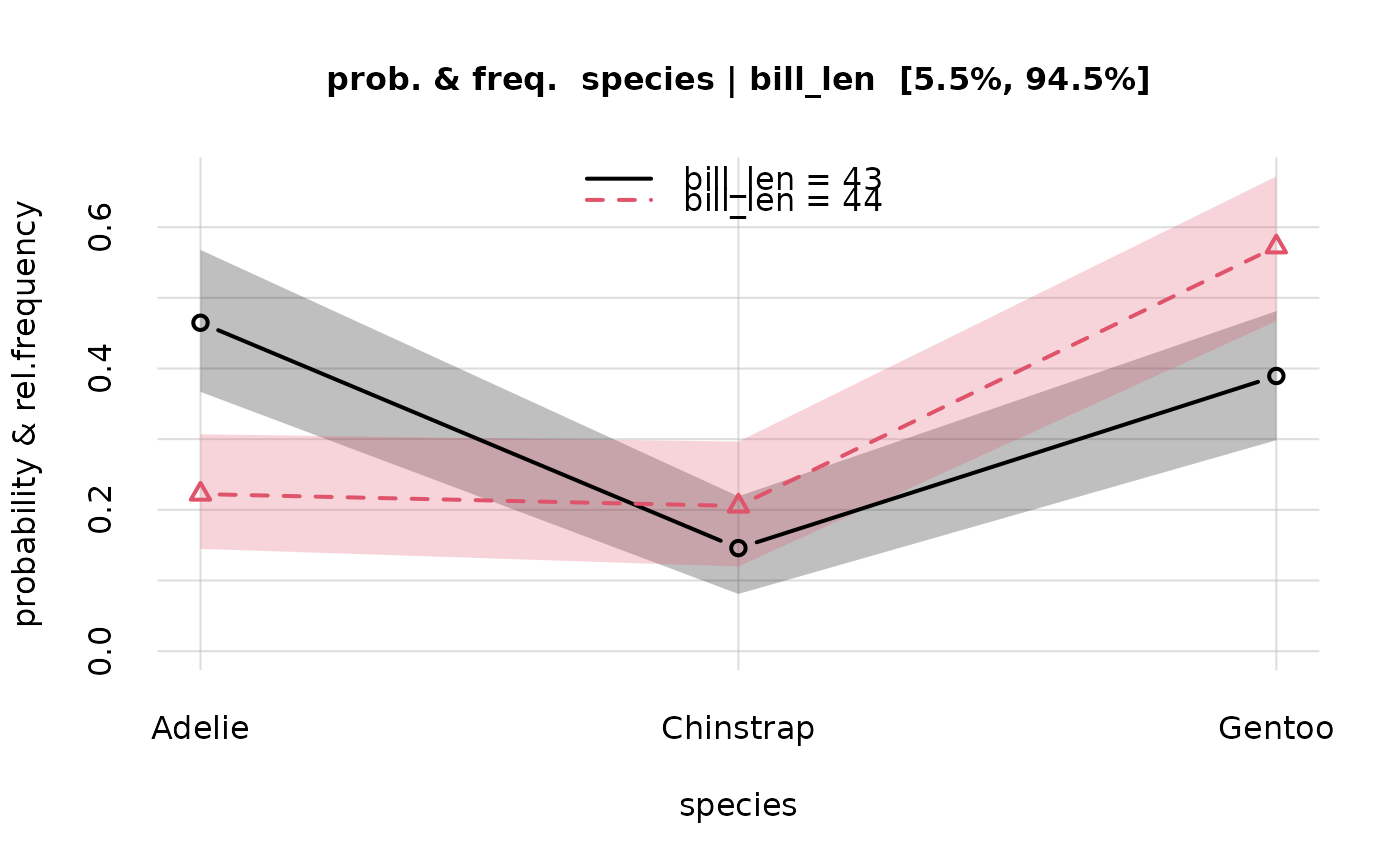
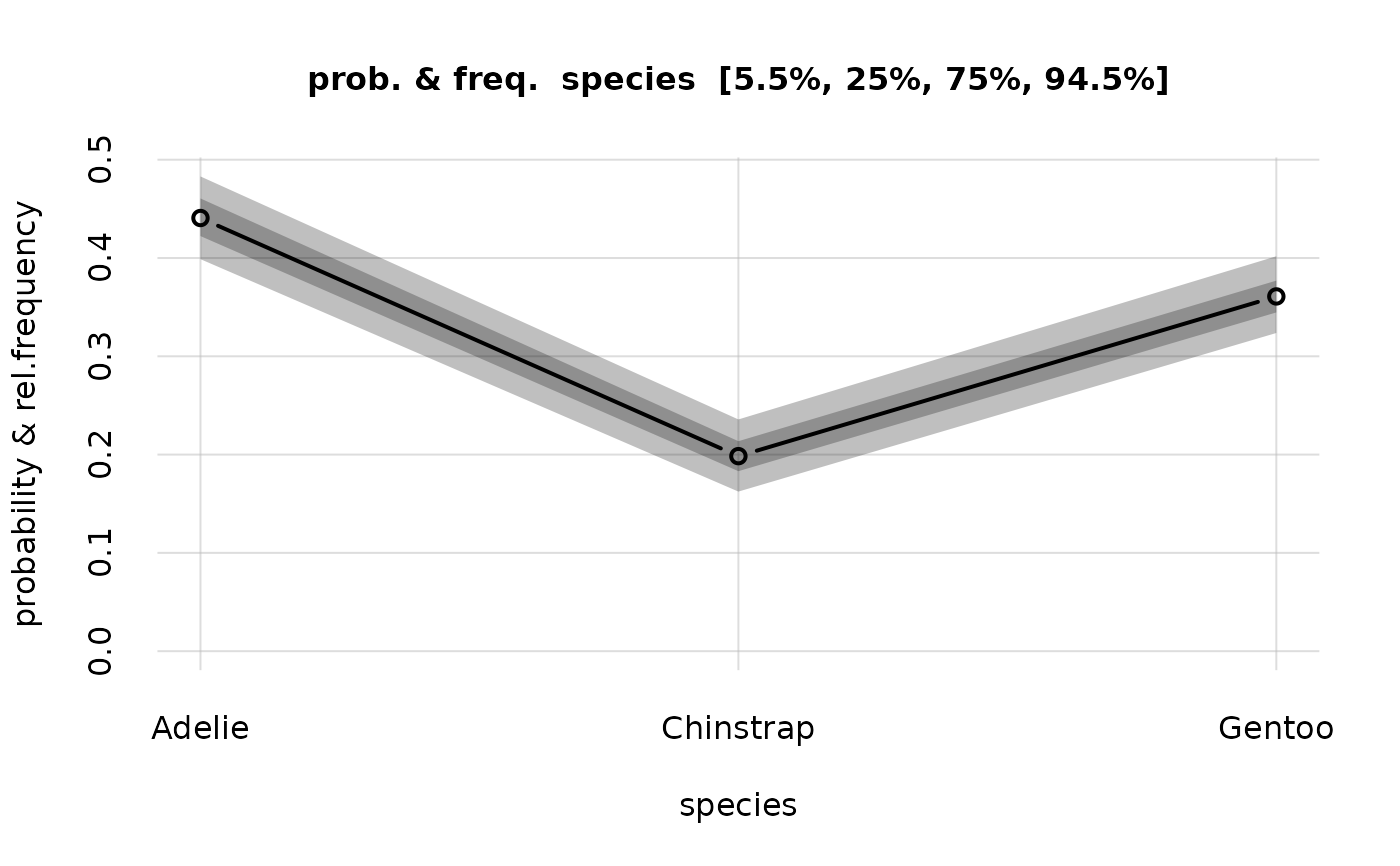
Deploying to gh-pages from @ pglpm/prova@20bd55bd6f3ef60d40f20f00bb2e143a2d102df6 🚀

diff --git a/reference/hist.probability.html b/reference/hist.probability.html
@@ -1,5 +1,15 @@
 <!DOCTYPE html>
-<!-- Generated by pkgdown: do not edit by hand --><html lang="en"><head><meta http-equiv="Content-Type" content="text/html; charset=UTF-8"><meta charset="utf-8"><meta http-equiv="X-UA-Compatible" content="IE=edge"><meta name="viewport" content="width=device-width, initial-scale=1, shrink-to-fit=no"><title>Plot the variability of an object of class "probability" as a histogram — hist.probability • prova</title><script src="../deps/jquery-3.6.0/jquery-3.6.0.min.js"></script><meta name="viewport" content="width=device-width, initial-scale=1, shrink-to-fit=no"><link href="../deps/bootstrap-5.3.8/bootstrap.min.css" rel="stylesheet"><script src="../deps/bootstrap-5.3.8/bootstrap.bundle.min.js"></script><link href="../deps/font-awesome-6.5.2/css/all.min.css" rel="stylesheet"><link href="../deps/font-awesome-6.5.2/css/v4-shims.min.css" rel="stylesheet"><script src="../deps/headroom-0.11.0/headroom.min.js"></script><script src="../deps/headroom-0.11.0/jQuery.headroom.min.js"></script><script src="../deps/bootstrap-toc-1.0.1/bootstrap-toc.min.js"></script><script src="../deps/clipboard.js-2.0.11/clipboard.min.js"></script><script src="../deps/search-1.0.0/autocomplete.jquery.min.js"></script><script src="../deps/search-1.0.0/fuse.min.js"></script><script src="../deps/search-1.0.0/mark.min.js"></script><!-- pkgdown --><script src="../pkgdown.js"></script><meta property="og:title" content="Plot the variability of an object of class " probability as a histogram hist.probability><meta name="description" content="This graphics::hist()ogram method is a utility to visualize the variability of the probabilities obtained with Pr(), which can also be interpreted as the probability density for the whole-population frequencies."><meta property="og:description" content="This graphics::hist()ogram method is a utility to visualize the variability of the probabilities obtained with Pr(), which can also be interpreted as the probability density for the whole-population frequencies."></head><body>
+<!-- Generated by pkgdown: do not edit by hand --><html lang="en"><head><meta http-equiv="Content-Type" content="text/html; charset=UTF-8"><meta charset="utf-8"><meta http-equiv="X-UA-Compatible" content="IE=edge"><meta name="viewport" content="width=device-width, initial-scale=1, shrink-to-fit=no"><title>Plot the variability of an object of class "probability" as a histogram — hist.probability • prova</title><script src="../deps/jquery-3.6.0/jquery-3.6.0.min.js"></script><meta name="viewport" content="width=device-width, initial-scale=1, shrink-to-fit=no"><link href="../deps/bootstrap-5.3.8/bootstrap.min.css" rel="stylesheet"><script src="../deps/bootstrap-5.3.8/bootstrap.bundle.min.js"></script><link href="../deps/font-awesome-6.5.2/css/all.min.css" rel="stylesheet"><link href="../deps/font-awesome-6.5.2/css/v4-shims.min.css" rel="stylesheet"><script src="../deps/headroom-0.11.0/headroom.min.js"></script><script src="../deps/headroom-0.11.0/jQuery.headroom.min.js"></script><script src="../deps/bootstrap-toc-1.0.1/bootstrap-toc.min.js"></script><script src="../deps/clipboard.js-2.0.11/clipboard.min.js"></script><script src="../deps/search-1.0.0/autocomplete.jquery.min.js"></script><script src="../deps/search-1.0.0/fuse.min.js"></script><script src="../deps/search-1.0.0/mark.min.js"></script><!-- pkgdown --><script src="../pkgdown.js"></script><meta property="og:title" content="Plot the variability of an object of class " probability as a histogram hist.probability><meta name="description" content="The posterior probabilities calculated with the Pr() function, and outputted as a probability object, have an associated variability that comes from the finite size of the data sample. This variability can be interpreted in two ways:
+How the probabilities would change, if we could collect a very large (infinite) amount of additional data, and how likely would such change be;
+The relative frequency of a particular variate value in the full (sampled and unsampled) population is unknown; we can quantify our uncertainty about this relative frequency with a probability distribution.
+
+
+The hist() method for a probability object is a utility to visualize this kind of variability, in the form of a distribution."><meta property="og:description" content="The posterior probabilities calculated with the Pr() function, and outputted as a probability object, have an associated variability that comes from the finite size of the data sample. This variability can be interpreted in two ways:
+How the probabilities would change, if we could collect a very large (infinite) amount of additional data, and how likely would such change be;
+The relative frequency of a particular variate value in the full (sampled and unsampled) population is unknown; we can quantify our uncertainty about this relative frequency with a probability distribution.
+
+
+The hist() method for a probability object is a utility to visualize this kind of variability, in the form of a distribution."></head><body>
     <a href="#main" class="visually-hidden-focusable">Skip to contents</a>
 
 
@@ -38,7 +48,9 @@
     </div>
 
     <div class="ref-description section level2">
-    <p>This <code><a href="https://rdrr.io/r/graphics/hist.html" class="external-link">graphics::hist()</a></code>ogram method is a utility to visualize the variability of the probabilities obtained with <code><a href="Pr.html">Pr()</a></code>, which can also be interpreted as the probability density for the whole-population frequencies.</p>
+    <p>The posterior probabilities calculated with the <code><a href="Pr.html">Pr()</a></code> function, and outputted as a <code>probability</code> object, have an associated variability that comes from the finite size of the data sample. This variability can be interpreted in two ways:</p><ul><li><p>How the probabilities would change, if we could collect a very large (infinite) amount of additional data, and how likely would such change be;</p></li>
+<li><p>The relative frequency of a particular variate value in the full (sampled and unsampled) population is unknown; we can quantify our uncertainty about this relative frequency with a probability distribution.</p></li>
+</ul><p>The <code><a href="https://rdrr.io/r/graphics/hist.html" class="external-link">hist()</a></code> method for a <code>probability</code> object is a utility to visualize this kind of variability, in the form of a distribution.</p>
     </div>
 
     <div class="section level2">
@@ -93,7 +105,37 @@
 <dd><p>Other parameters to be passed to <code><a href="flexiplot.html">flexiplot()</a></code>.</p></dd>
 
 </dl></div>
+    <div class="section level2">
+    <h2 id="see-also">See also<a class="anchor" aria-label="anchor" href="#see-also"></a></h2>
+    <div class="dont-index"><p><code><a href="Pr.html">Pr()</a></code> to calculate posterior probabilities and quantiles.</p>
+<p><code><a href="plot.probability.html">plot.probability()</a></code> to plot the posterior probabilities.</p>
+<p><code><a href="flexiplot.html">flexiplot()</a></code> (on which <code>hist.probability()</code> is based) for more general plots.</p>
+<p><code><a href="plotquantiles.html">plotquantiles()</a></code> to plot quantile ranges.</p></div>
+    </div>
 
+    <div class="section level2">
+    <h2 id="ref-examples">Examples<a class="anchor" aria-label="anchor" href="#ref-examples"></a></h2>
+    <div class="sourceCode"><pre class="sourceCode r"><code><span class="r-in"><span><span class="co">## Load the example `learnt` object included in the package</span></span></span>
+<span class="r-in"><span><span class="va">learnt</span> <span class="op">&lt;-</span> <span class="va">learntExample</span></span></span>
+<span class="r-in"><span></span></span>
+<span class="r-in"><span><span class="co">## calculate the probability, and its variability,</span></span></span>
+<span class="r-in"><span><span class="co">## for the value 'Adelie' of the "species" variate</span></span></span>
+<span class="r-in"><span><span class="va">probs</span> <span class="op">&lt;-</span> <span class="fu"><a href="Pr.html">Pr</a></span><span class="op">(</span>Y <span class="op">=</span> <span class="fu"><a href="https://rdrr.io/r/base/data.frame.html" class="external-link">data.frame</a></span><span class="op">(</span>species <span class="op">=</span> <span class="st">'Adelie'</span><span class="op">)</span>, learnt <span class="op">=</span> <span class="va">learnt</span>, parallel <span class="op">=</span> <span class="fl">1</span><span class="op">)</span></span></span>
+<span class="r-msg co"><span class="r-pr">#&gt;</span> Registered socket cluster with 1 nodes on host ‘localhost’.</span>
+<span class="r-msg co"><span class="r-pr">#&gt;</span> Closing connections to cores.</span>
+<span class="r-in"><span><span class="va">probs</span><span class="op">$</span><span class="va">values</span></span></span>
+<span class="r-out co"><span class="r-pr">#&gt;</span>         X</span>
+<span class="r-out co"><span class="r-pr">#&gt;</span> Y            [,1]</span>
+<span class="r-out co"><span class="r-pr">#&gt;</span>   Adelie 0.440685</span>
+<span class="r-in"><span></span></span>
+<span class="r-in"><span><span class="co">## show the variability of this probability; equivalently show</span></span></span>
+<span class="r-in"><span><span class="co">## the probability distribution for the relative frequency of</span></span></span>
+<span class="r-in"><span><span class="co">## 'Adelie' penguins in the full population</span></span></span>
+<span class="r-in"><span><span class="fu"><a href="https://rdrr.io/r/graphics/hist.html" class="external-link">hist</a></span><span class="op">(</span><span class="va">probs</span>, legend <span class="op">=</span> <span class="st">'topright'</span><span class="op">)</span></span></span>
+<span class="r-plt img"><img src="hist.probability-1.png" alt="" width="700" height="433"></span>
+<span class="r-in"><span></span></span>
+</code></pre></div>
+    </div>
   </main><aside class="col-md-3"><nav id="toc" aria-label="Table of contents"><h2>On this page</h2>
     </nav></aside></div>
 

diff --git a/reference/Pr.html b/reference/Pr.html
@@ -151,6 +151,10 @@ the joint probability of. One variate per column, one set of values per row.</p>
 <span class="r-out co"><span class="r-pr">#&gt;</span>      5.5%     94.5% </span>
 <span class="r-out co"><span class="r-pr">#&gt;</span> 0.3988210 0.4829919 </span>
 <span class="r-in"><span></span></span>
+<span class="r-in"><span><span class="co">## we can also plot the probability distribution for this full-population frequency</span></span></span>
+<span class="r-in"><span><span class="fu"><a href="https://rdrr.io/r/graphics/hist.html" class="external-link">hist</a></span><span class="op">(</span><span class="va">probs</span><span class="op">)</span></span></span>
+<span class="r-plt img"><img src="Pr-1.png" alt="" width="700" height="433"></span>
+<span class="r-in"><span></span></span>
 <span class="r-in"><span></span></span>
 <span class="r-in"><span><span class="co">## ## Example 2:</span></span></span>
 <span class="r-in"><span><span class="co">## Calculate the 3 probabilities that an unknown penguin from this population</span></span></span>
@@ -183,8 +187,12 @@ the joint probability of. One variate per column, one set of values per row.</p>
 <span class="r-in"><span></span></span>
 <span class="r-in"><span><span class="co">## plot the probabilities and quantiles</span></span></span>
 <span class="r-in"><span><span class="fu"><a href="https://rdrr.io/r/graphics/plot.default.html" class="external-link">plot</a></span><span class="op">(</span><span class="va">probs</span><span class="op">)</span></span></span>
-<span class="r-plt img"><img src="Pr-1.png" alt="" width="700" height="433"></span>
+<span class="r-plt img"><img src="Pr-2.png" alt="" width="700" height="433"></span>
 <span class="r-in"><span></span></span>
+<span class="r-in"><span><span class="co">## plot the probability distribution for the full-population frequency</span></span></span>
+<span class="r-in"><span><span class="co">## of each species</span></span></span>
+<span class="r-in"><span><span class="fu"><a href="https://rdrr.io/r/graphics/hist.html" class="external-link">hist</a></span><span class="op">(</span><span class="va">probs</span><span class="op">)</span></span></span>
+<span class="r-plt img"><img src="Pr-3.png" alt="" width="700" height="433"></span>
 <span class="r-in"><span></span></span>
 <span class="r-in"><span><span class="co">## ## Example 3:</span></span></span>
 <span class="r-in"><span><span class="co">## Calculate the probability that an unknown penguin is of species 'Adelie'</span></span></span>
@@ -279,7 +287,7 @@ the joint probability of. One variate per column, one set of values per row.</p>
 <span class="r-in"><span></span></span>
 <span class="r-in"><span><span class="co">## plot the probabilities and quantiles</span></span></span>
 <span class="r-in"><span><span class="fu"><a href="https://rdrr.io/r/graphics/plot.default.html" class="external-link">plot</a></span><span class="op">(</span><span class="va">probs</span><span class="op">)</span></span></span>
-<span class="r-plt img"><img src="Pr-2.png" alt="" width="700" height="433"></span>
+<span class="r-plt img"><img src="Pr-4.png" alt="" width="700" height="433"></span>
 <span class="r-in"><span></span></span>
 <span class="r-in"><span></span></span>
 <span class="r-in"><span><span class="co">## ## Example 6:</span></span></span>

diff --git a/reference/learn.html b/reference/learn.html
@@ -230,7 +230,7 @@
 <span class="r-msg co"><span class="r-pr">#&gt;</span> Learning from 5 datapoints, 1 variates.</span>
 <span class="r-out co"><span class="r-pr">#&gt;</span> </span>
 <span class="r-out co"><span class="r-pr">#&gt;</span>  Saving output in directory</span>
-<span class="r-out co"><span class="r-pr">#&gt;</span>  /tmp/Rtmp0QWWNW/prova-V1_D5_S10_260621T110847_1a2b3a51353b </span>
+<span class="r-out co"><span class="r-pr">#&gt;</span>  /tmp/RtmpS360xT/prova-V1_D5_S10_260621T113553_1a1816c26c1d </span>
 <span class="r-out co"><span class="r-pr">#&gt;</span> </span>
 <span class="r-msg co"><span class="r-pr">#&gt;</span> Starting Monte Carlo sampling of 10 samples by 1 chains</span>
 <span class="r-msg co"><span class="r-pr">#&gt;</span> in a space of 191 (effectively 261) dimensions.</span>
@@ -256,9 +256,9 @@
 <span class="r-msg co"><span class="r-pr">#&gt;</span> quantile width: 0.127 to 3.7</span>
 <span class="r-msg co"><span class="r-pr">#&gt;</span> </span>
 <span class="r-msg co"><span class="r-pr">#&gt;</span> Plotting final Monte Carlo traces and marginal samples...</span>
-<span class="r-msg co"><span class="r-pr">#&gt;</span> Total computation time: 34 secs</span>
+<span class="r-msg co"><span class="r-pr">#&gt;</span> Total computation time: 35 secs</span>
 <span class="r-msg co"><span class="r-pr">#&gt;</span> Average preparation &amp; finalization time: 33 secs.</span>
-<span class="r-msg co"><span class="r-pr">#&gt;</span> Average Monte Carlo time per chain: 0.57 secs.</span>
+<span class="r-msg co"><span class="r-pr">#&gt;</span> Average Monte Carlo time per chain: 0.71 secs.</span>
 <span class="r-msg co"><span class="r-pr">#&gt;</span> Max total memory used: approx 360MB.</span>
 <span class="r-msg co"><span class="r-pr">#&gt;</span> Max memory used per core: approx 360MB.</span>
 <span class="r-msg co"><span class="r-pr">#&gt;</span> Removing temporary output files.</span>
@@ -266,7 +266,7 @@
 <span class="r-msg co"><span class="r-pr">#&gt;</span> Finished.</span>
 <span class="r-msg co"><span class="r-pr">#&gt;</span> **********************************************************</span>
 <span class="r-msg co"><span class="r-pr">#&gt;</span>  Output saved in directory</span>
-<span class="r-msg co"><span class="r-pr">#&gt;</span> /tmp/Rtmp0QWWNW/prova-V1_D5_S10_260621T110847_1a2b3a51353b</span>
+<span class="r-msg co"><span class="r-pr">#&gt;</span> /tmp/RtmpS360xT/prova-V1_D5_S10_260621T113553_1a1816c26c1d</span>
 <span class="r-msg co"><span class="r-pr">#&gt;</span> **********************************************************</span>
 <span class="r-msg co"><span class="r-pr">#&gt;</span> Closing connections to cores.</span>
 <span class="r-in"><span></span></span>

diff --git a/reference/plot.probability.html b/reference/plot.probability.html
@@ -97,6 +97,13 @@
 <dd><p>Other parameters to be passed to <code><a href="flexiplot.html">flexiplot()</a></code>.</p></dd>
 
 </dl></div>
+    <div class="section level2">
+    <h2 id="see-also">See also<a class="anchor" aria-label="anchor" href="#see-also"></a></h2>
+    <div class="dont-index"><p><code><a href="Pr.html">Pr()</a></code> to calculate posterior probabilities and quantiles.</p>
+<p><code><a href="hist.probability.html">hist.probability()</a></code> to plot the variability of the probabilities as a distribution.</p>
+<p><code><a href="flexiplot.html">flexiplot()</a></code> (on which <code>plot.probability()</code> is based) for more general plots.</p>
+<p><code><a href="plotquantiles.html">plotquantiles()</a></code> to plot quantile ranges.</p></div>
+    </div>
 
     <div class="section level2">
     <h2 id="ref-examples">Examples<a class="anchor" aria-label="anchor" href="#ref-examples"></a></h2>

diff --git a/reference/hist.probability.md b/reference/hist.probability.md
@@ -1,10 +1,23 @@
 # Plot the variability of an object of class "probability" as a histogram
 
-This [`graphics::hist()`](https://rdrr.io/r/graphics/hist.html)ogram
-method is a utility to visualize the variability of the probabilities
-obtained with [`Pr()`](https://pglpm.github.io/prova/reference/Pr.md),
-which can also be interpreted as the probability density for the
-whole-population frequencies.
+The posterior probabilities calculated with the
+[`Pr()`](https://pglpm.github.io/prova/reference/Pr.md) function, and
+outputted as a `probability` object, have an associated variability that
+comes from the finite size of the data sample. This variability can be
+interpreted in two ways:
+
+- How the probabilities would change, if we could collect a very large
+  (infinite) amount of additional data, and how likely would such change
+  be;
+
+- The relative frequency of a particular variate value in the full
+  (sampled and unsampled) population is unknown; we can quantify our
+  uncertainty about this relative frequency with a probability
+  distribution.
+
+The [`hist()`](https://rdrr.io/r/graphics/hist.html) method for a
+`probability` object is a utility to visualize this kind of variability,
+in the form of a distribution.
 
 ## Usage
 
@@ -68,3 +81,40 @@ hist(
 
   Other parameters to be passed to
   [`flexiplot()`](https://pglpm.github.io/prova/reference/flexiplot.md).
+
+## See also
+
+[`Pr()`](https://pglpm.github.io/prova/reference/Pr.md) to calculate
+posterior probabilities and quantiles.
+
+[`plot.probability()`](https://pglpm.github.io/prova/reference/plot.probability.md)
+to plot the posterior probabilities.
+
+[`flexiplot()`](https://pglpm.github.io/prova/reference/flexiplot.md)
+(on which `hist.probability()` is based) for more general plots.
+
+[`plotquantiles()`](https://pglpm.github.io/prova/reference/plotquantiles.md)
+to plot quantile ranges.
+
+## Examples
+
+``` r
+## Load the example `learnt` object included in the package
+learnt <- learntExample
+
+## calculate the probability, and its variability,
+## for the value 'Adelie' of the "species" variate
+probs <- Pr(Y = data.frame(species = 'Adelie'), learnt = learnt, parallel = 1)
+#> Registered socket cluster with 1 nodes on host ‘localhost’.
+#> Closing connections to cores.
+probs$values
+#>         X
+#> Y            [,1]
+#>   Adelie 0.440685
+
+## show the variability of this probability; equivalently show
+## the probability distribution for the relative frequency of
+## 'Adelie' penguins in the full population
+hist(probs, legend = 'topright')
+
+```

diff --git a/reference/plot.probability.md b/reference/plot.probability.md
@@ -78,6 +78,20 @@ plot(
   Other parameters to be passed to
   [`flexiplot()`](https://pglpm.github.io/prova/reference/flexiplot.md).
 
+## See also
+
+[`Pr()`](https://pglpm.github.io/prova/reference/Pr.md) to calculate
+posterior probabilities and quantiles.
+
+[`hist.probability()`](https://pglpm.github.io/prova/reference/hist.probability.md)
+to plot the variability of the probabilities as a distribution.
+
+[`flexiplot()`](https://pglpm.github.io/prova/reference/flexiplot.md)
+(on which `plot.probability()` is based) for more general plots.
+
+[`plotquantiles()`](https://pglpm.github.io/prova/reference/plotquantiles.md)
+to plot quantile ranges.
+
 ## Examples
 
 ``` r

diff --git a/reference/Pr.md b/reference/Pr.md
@@ -199,6 +199,10 @@ probs$quantiles[, , c('5.5%', '94.5%')]
 #>      5.5%     94.5% 
 #> 0.3988210 0.4829919 
 
+## we can also plot the probability distribution for this full-population frequency
+hist(probs)
+
+
 
 ## ## Example 2:
 ## Calculate the 3 probabilities that an unknown penguin from this population
@@ -232,6 +236,10 @@ probs$quantiles[, , c('5.5%', '94.5%')]
 ## plot the probabilities and quantiles
 plot(probs)
 
+
+## plot the probability distribution for the full-population frequency
+## of each species
+hist(probs)
 
 
 ## ## Example 3:

diff --git a/reference/learn.md b/reference/learn.md
@@ -260,7 +260,7 @@ learnt <- learn(
 #> Learning from 5 datapoints, 1 variates.
 #> 
 #>  Saving output in directory
-#>  /tmp/Rtmp0QWWNW/prova-V1_D5_S10_260621T110847_1a2b3a51353b 
+#>  /tmp/RtmpS360xT/prova-V1_D5_S10_260621T113553_1a1816c26c1d 
 #> 
 #> Starting Monte Carlo sampling of 10 samples by 1 chains
 #> in a space of 191 (effectively 261) dimensions.
@@ -286,9 +286,9 @@ learnt <- learn(
 #> quantile width: 0.127 to 3.7
 #> 
 #> Plotting final Monte Carlo traces and marginal samples...
-#> Total computation time: 34 secs
+#> Total computation time: 35 secs
 #> Average preparation & finalization time: 33 secs.
-#> Average Monte Carlo time per chain: 0.57 secs.
+#> Average Monte Carlo time per chain: 0.71 secs.
 #> Max total memory used: approx 360MB.
 #> Max memory used per core: approx 360MB.
 #> Removing temporary output files.
@@ -296,7 +296,7 @@ learnt <- learn(
 #> Finished.
 #> **********************************************************
 #>  Output saved in directory
-#> /tmp/Rtmp0QWWNW/prova-V1_D5_S10_260621T110847_1a2b3a51353b
+#> /tmp/RtmpS360xT/prova-V1_D5_S10_260621T113553_1a1816c26c1d
 #> **********************************************************
 #> Closing connections to cores.
 